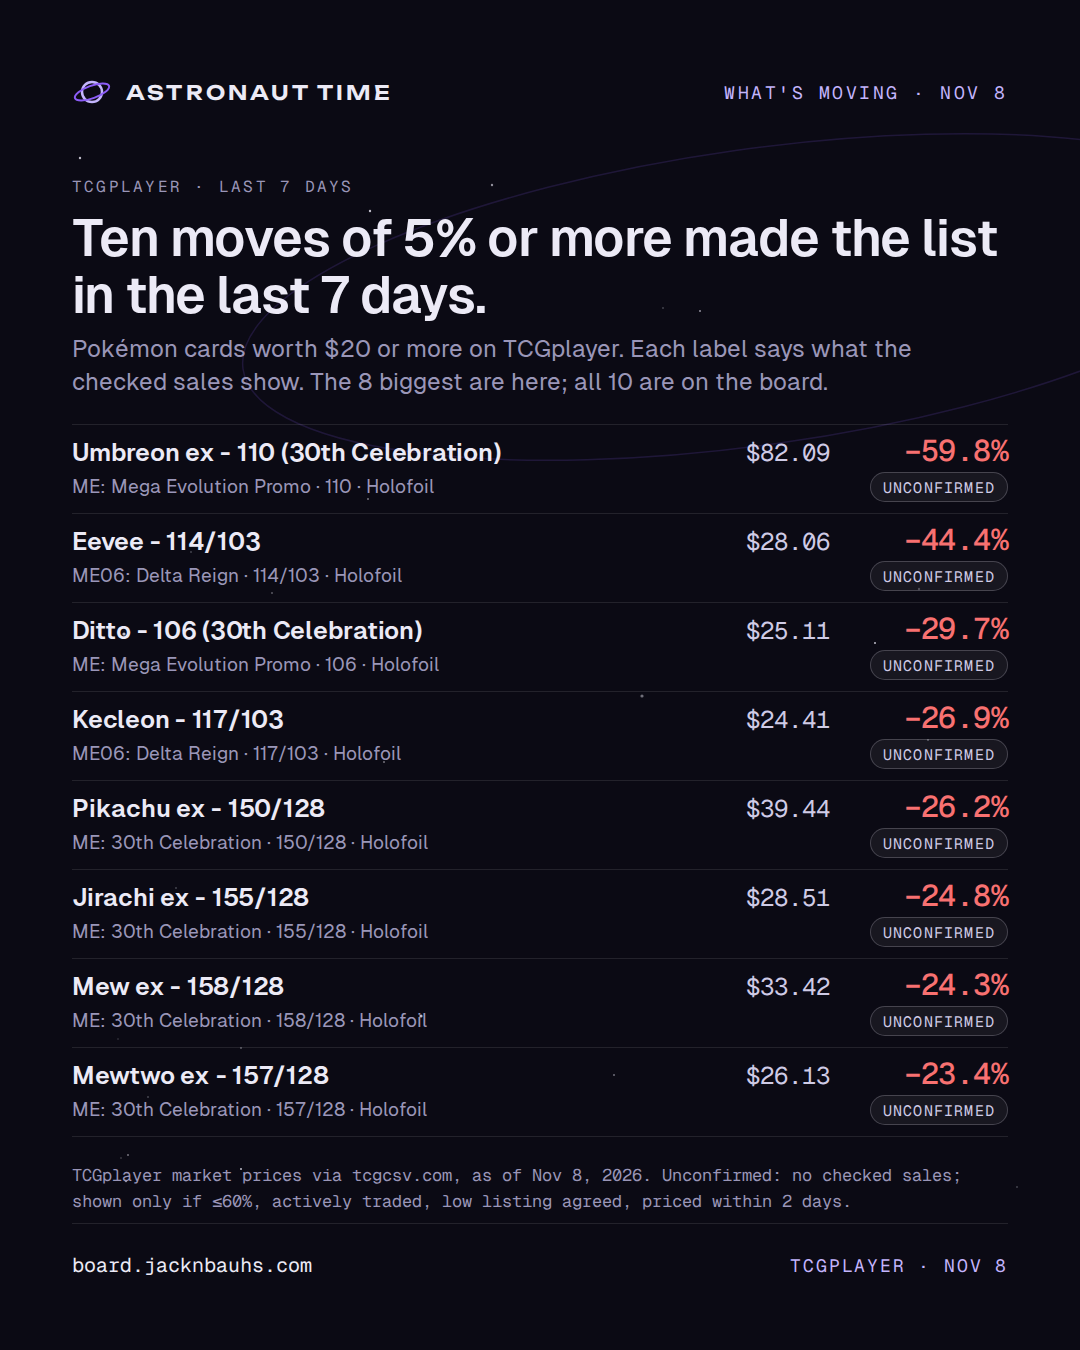
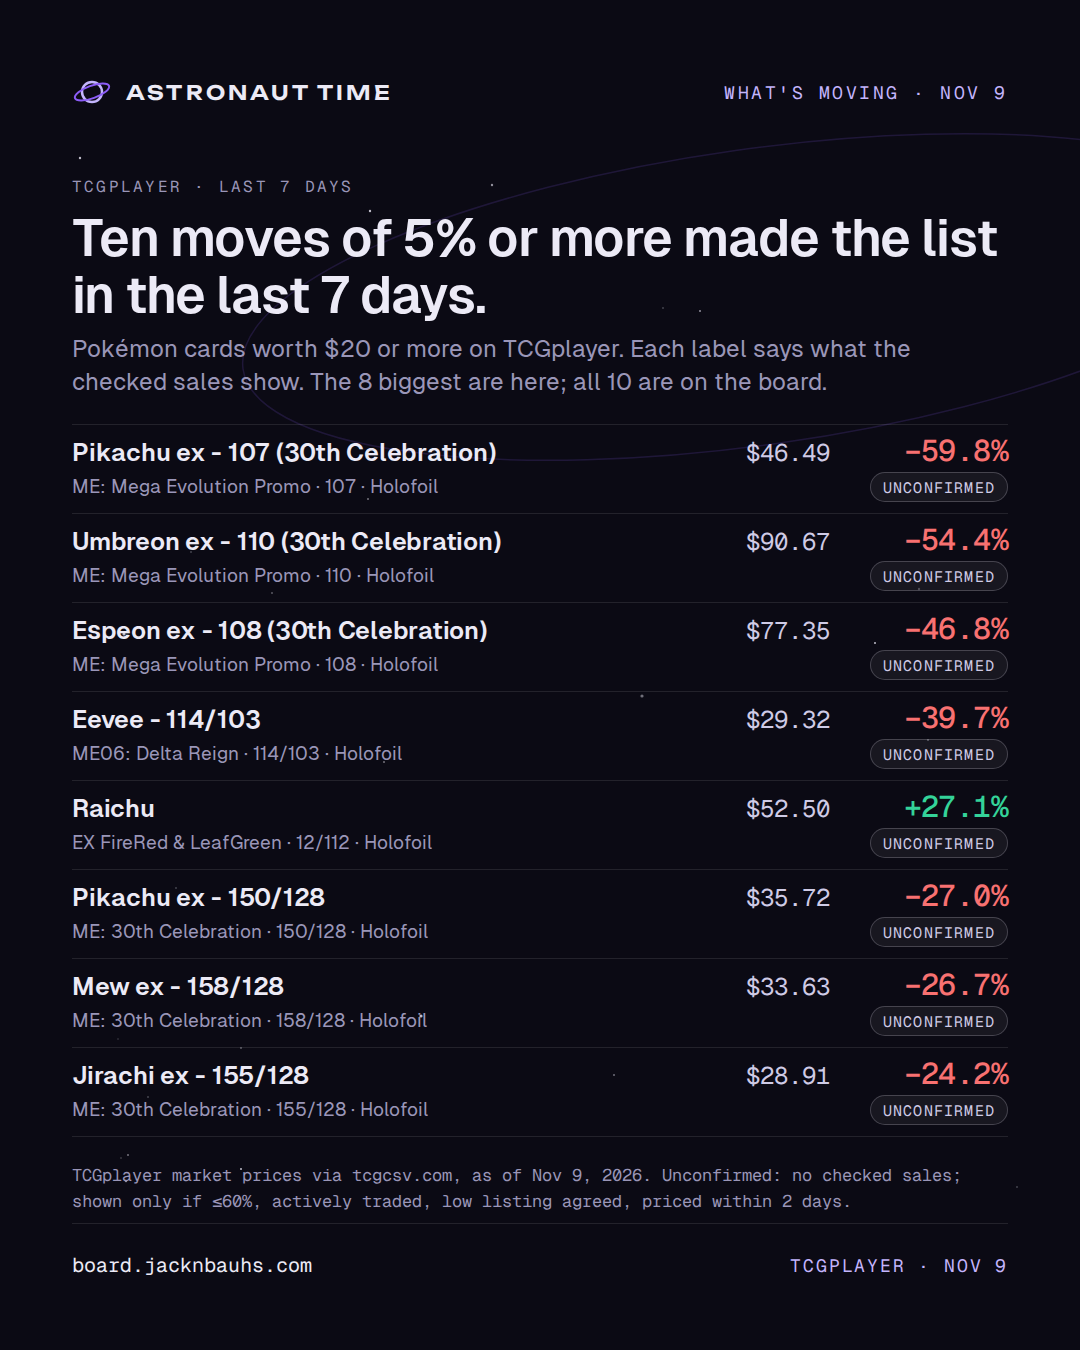
Share kit: render 2026-11-10

diff --git a/card.html b/card.html
@@ -10,14 +10,14 @@
 <meta property="og:url" content="https://board.jacknbauhs.com/card.html">
 <meta property="og:type" content="website">
 <meta property="og:site_name" content="Astronaut Time">
-<meta property="og:image" content="https://board.jacknbauhs.com/assets/og.png?v=2026-11-09">
+<meta property="og:image" content="https://board.jacknbauhs.com/assets/og.png?v=2026-11-10">
 <meta property="og:image:width" content="1200">
 <meta property="og:image:height" content="630">
 <meta property="og:image:alt" content="Mission Control by Astronaut Time: the card market, with the fake sales taken out.">
 <meta name="twitter:card" content="summary_large_image">
 <meta name="twitter:title" content="Card · Mission Control · Astronaut Time">
 <meta name="twitter:description" content="The card market, with the fake sales taken out.">
-<meta name="twitter:image" content="https://board.jacknbauhs.com/assets/og.png?v=2026-11-09">
+<meta name="twitter:image" content="https://board.jacknbauhs.com/assets/og.png?v=2026-11-10">
 <meta name="theme-color" content="#0B0A14">
 <link rel="icon" href="assets/favicon.svg" type="image/svg+xml">
 <link rel="preconnect" href="https://fonts.googleapis.com">

diff --git a/404.html b/404.html
@@ -10,14 +10,14 @@
 <meta property="og:url" content="https://board.jacknbauhs.com/">
 <meta property="og:type" content="website">
 <meta property="og:site_name" content="Astronaut Time">
-<meta property="og:image" content="https://board.jacknbauhs.com/assets/og.png?v=2026-11-09">
+<meta property="og:image" content="https://board.jacknbauhs.com/assets/og.png?v=2026-11-10">
 <meta property="og:image:width" content="1200">
 <meta property="og:image:height" content="630">
 <meta property="og:image:alt" content="Mission Control by Astronaut Time: the card market, with the fake sales taken out.">
 <meta name="twitter:card" content="summary_large_image">
 <meta name="twitter:title" content="Mission Control · Astronaut Time">
 <meta name="twitter:description" content="The card market, with the fake sales taken out.">
-<meta name="twitter:image" content="https://board.jacknbauhs.com/assets/og.png?v=2026-11-09">
+<meta name="twitter:image" content="https://board.jacknbauhs.com/assets/og.png?v=2026-11-10">
 <meta name="theme-color" content="#0B0A14">
 <link rel="icon" href="/assets/favicon.svg" type="image/svg+xml">
 <link rel="preconnect" href="https://fonts.googleapis.com">

diff --git a/index.html b/index.html
@@ -10,14 +10,14 @@
 <meta property="og:url" content="https://board.jacknbauhs.com/">
 <meta property="og:type" content="website">
 <meta property="og:site_name" content="Astronaut Time">
-<meta property="og:image" content="https://board.jacknbauhs.com/assets/og.png?v=2026-11-09">
+<meta property="og:image" content="https://board.jacknbauhs.com/assets/og.png?v=2026-11-10">
 <meta property="og:image:width" content="1200">
 <meta property="og:image:height" content="630">
 <meta property="og:image:alt" content="Mission Control by Astronaut Time: the card market, with the fake sales taken out.">
 <meta name="twitter:card" content="summary_large_image">
 <meta name="twitter:title" content="Mission Control · Astronaut Time">
 <meta name="twitter:description" content="The card market, with the fake sales taken out.">
-<meta name="twitter:image" content="https://board.jacknbauhs.com/assets/og.png?v=2026-11-09">
+<meta name="twitter:image" content="https://board.jacknbauhs.com/assets/og.png?v=2026-11-10">
 <meta name="theme-color" content="#0B0A14">
 <link rel="icon" href="assets/favicon.svg" type="image/svg+xml">
 <link rel="preconnect" href="https://fonts.googleapis.com">

diff --git a/share/out/captions.md b/share/out/captions.md
@@ -1,10 +1,10 @@
-# Captions, board data of 2026-11-09
+# Captions, board data of 2026-11-10
 
 One block per image. Caption first, alt text second. Plain facts, the source and the board link; nothing here is a buy.
 
 ## Before you post
 
-- ✅ Prices are from Nov 8, 2026.
+- ✅ Prices are from Nov 9, 2026.
 - ⚠ All 10 on the 7-day list are unconfirmed: no checked sale behind any. Keep "unconfirmed" in the post and call them price moves, not sales.
 - ⚠ All 10 on the since-yesterday list are unconfirmed: no checked sale behind any. Keep "unconfirmed" in the post and call them price moves, not sales.
 
@@ -20,7 +20,7 @@ Alt: The File on the Astronaut Time board: Eight weeks in, the 30th Celebration 
 
 Alt: What we couldn't confirm: 5 of 5 30th Celebration moves on this File with no checked sale, all 5 listed one per line with the day, the card, the change and the TCGplayer market price after it.
 
-## flag-2026-11-07-feed-01-charizard-sir-151-psa-9-thin-spike.png
+## flag-2026-11-08-feed-01-charizard-sir-151-psa-9-thin-spike.png
 
 Charizard SIR (151) · PSA 9 (Pokemon Card 151): the chart says +27%. Above recent sales, thin volume. Label: thin spike. Up on a handful of sales, with no volume behind it. board.jacknbauhs.com
 
@@ -50,8 +50,8 @@ Three calls on the record. #001: The 30th Celebration Booster Bundle's premium c
 
 Alt: Three calls on the record. Number 001: The 30th Celebration Booster Bundle's premium collapses once it ships Oct 2. The ETB holds its premium better. Number 002: Base Set Charizard PSA 10 holds its price. The graded population is closed, so the reprint can't enter it. Number 003: Raw Base Set Charizard is down 10% or more by Oct 30. The reprint lands on the raw copies.
 
-## moving-2026-W45.png
+## moving-2026-W46.png
 
-What's moving on TCGplayer, as of Nov 8, 2026. Ten moves of 5% or more made the list in the last 7 days. Umbreon ex - 110 (30th Celebration) (ME: Mega Evolution Promo · 110 · Holofoil): $82.09, −59.8%, unconfirmed. Eevee - 114/103 (ME06: Delta Reign · 114/103 · Holofoil): $28.06, −44.4%, unconfirmed. Ditto - 106 (30th Celebration) (ME: Mega Evolution Promo · 106 · Holofoil): $25.11, −29.7%, unconfirmed. Kecleon - 117/103 (ME06: Delta Reign · 117/103 · Holofoil): $24.41, −26.9%, unconfirmed. Pikachu ex - 150/128 (ME: 30th Celebration · 150/128 · Holofoil): $39.44, −26.2%, unconfirmed. Jirachi ex - 155/128 (ME: 30th Celebration · 155/128 · Holofoil): $28.51, −24.8%, unconfirmed. Mew ex - 158/128 (ME: 30th Celebration · 158/128 · Holofoil): $33.42, −24.3%, unconfirmed. Mewtwo ex - 157/128 (ME: 30th Celebration · 157/128 · Holofoil): $26.13, −23.4%, unconfirmed. Unconfirmed: no checked sales; shown only if ≤60%, actively traded, low listing agreed, priced within 2 days. Source: TCGplayer market prices via tcgcsv.com, as of Nov 8, 2026. board.jacknbauhs.com
+What's moving on TCGplayer, as of Nov 9, 2026. Ten moves of 5% or more made the list in the last 7 days. Pikachu ex - 107 (30th Celebration) (ME: Mega Evolution Promo · 107 · Holofoil): $46.49, −59.8%, unconfirmed. Umbreon ex - 110 (30th Celebration) (ME: Mega Evolution Promo · 110 · Holofoil): $90.67, −54.4%, unconfirmed. Espeon ex - 108 (30th Celebration) (ME: Mega Evolution Promo · 108 · Holofoil): $77.35, −46.8%, unconfirmed. Eevee - 114/103 (ME06: Delta Reign · 114/103 · Holofoil): $29.32, −39.7%, unconfirmed. Raichu (EX FireRed & LeafGreen · 12/112 · Holofoil): $52.50, +27.1%, unconfirmed. Pikachu ex - 150/128 (ME: 30th Celebration · 150/128 · Holofoil): $35.72, −27.0%, unconfirmed. Mew ex - 158/128 (ME: 30th Celebration · 158/128 · Holofoil): $33.63, −26.7%, unconfirmed. Jirachi ex - 155/128 (ME: 30th Celebration · 155/128 · Holofoil): $28.91, −24.2%, unconfirmed. Unconfirmed: no checked sales; shown only if ≤60%, actively traded, low listing agreed, priced within 2 days. Source: TCGplayer market prices via tcgcsv.com, as of Nov 9, 2026. board.jacknbauhs.com
 
 Alt: What's moving: the 8 biggest of the 10 TCGplayer moves on the list in the last 7 days, each with its market price, its change and the label for what checked sales show.
